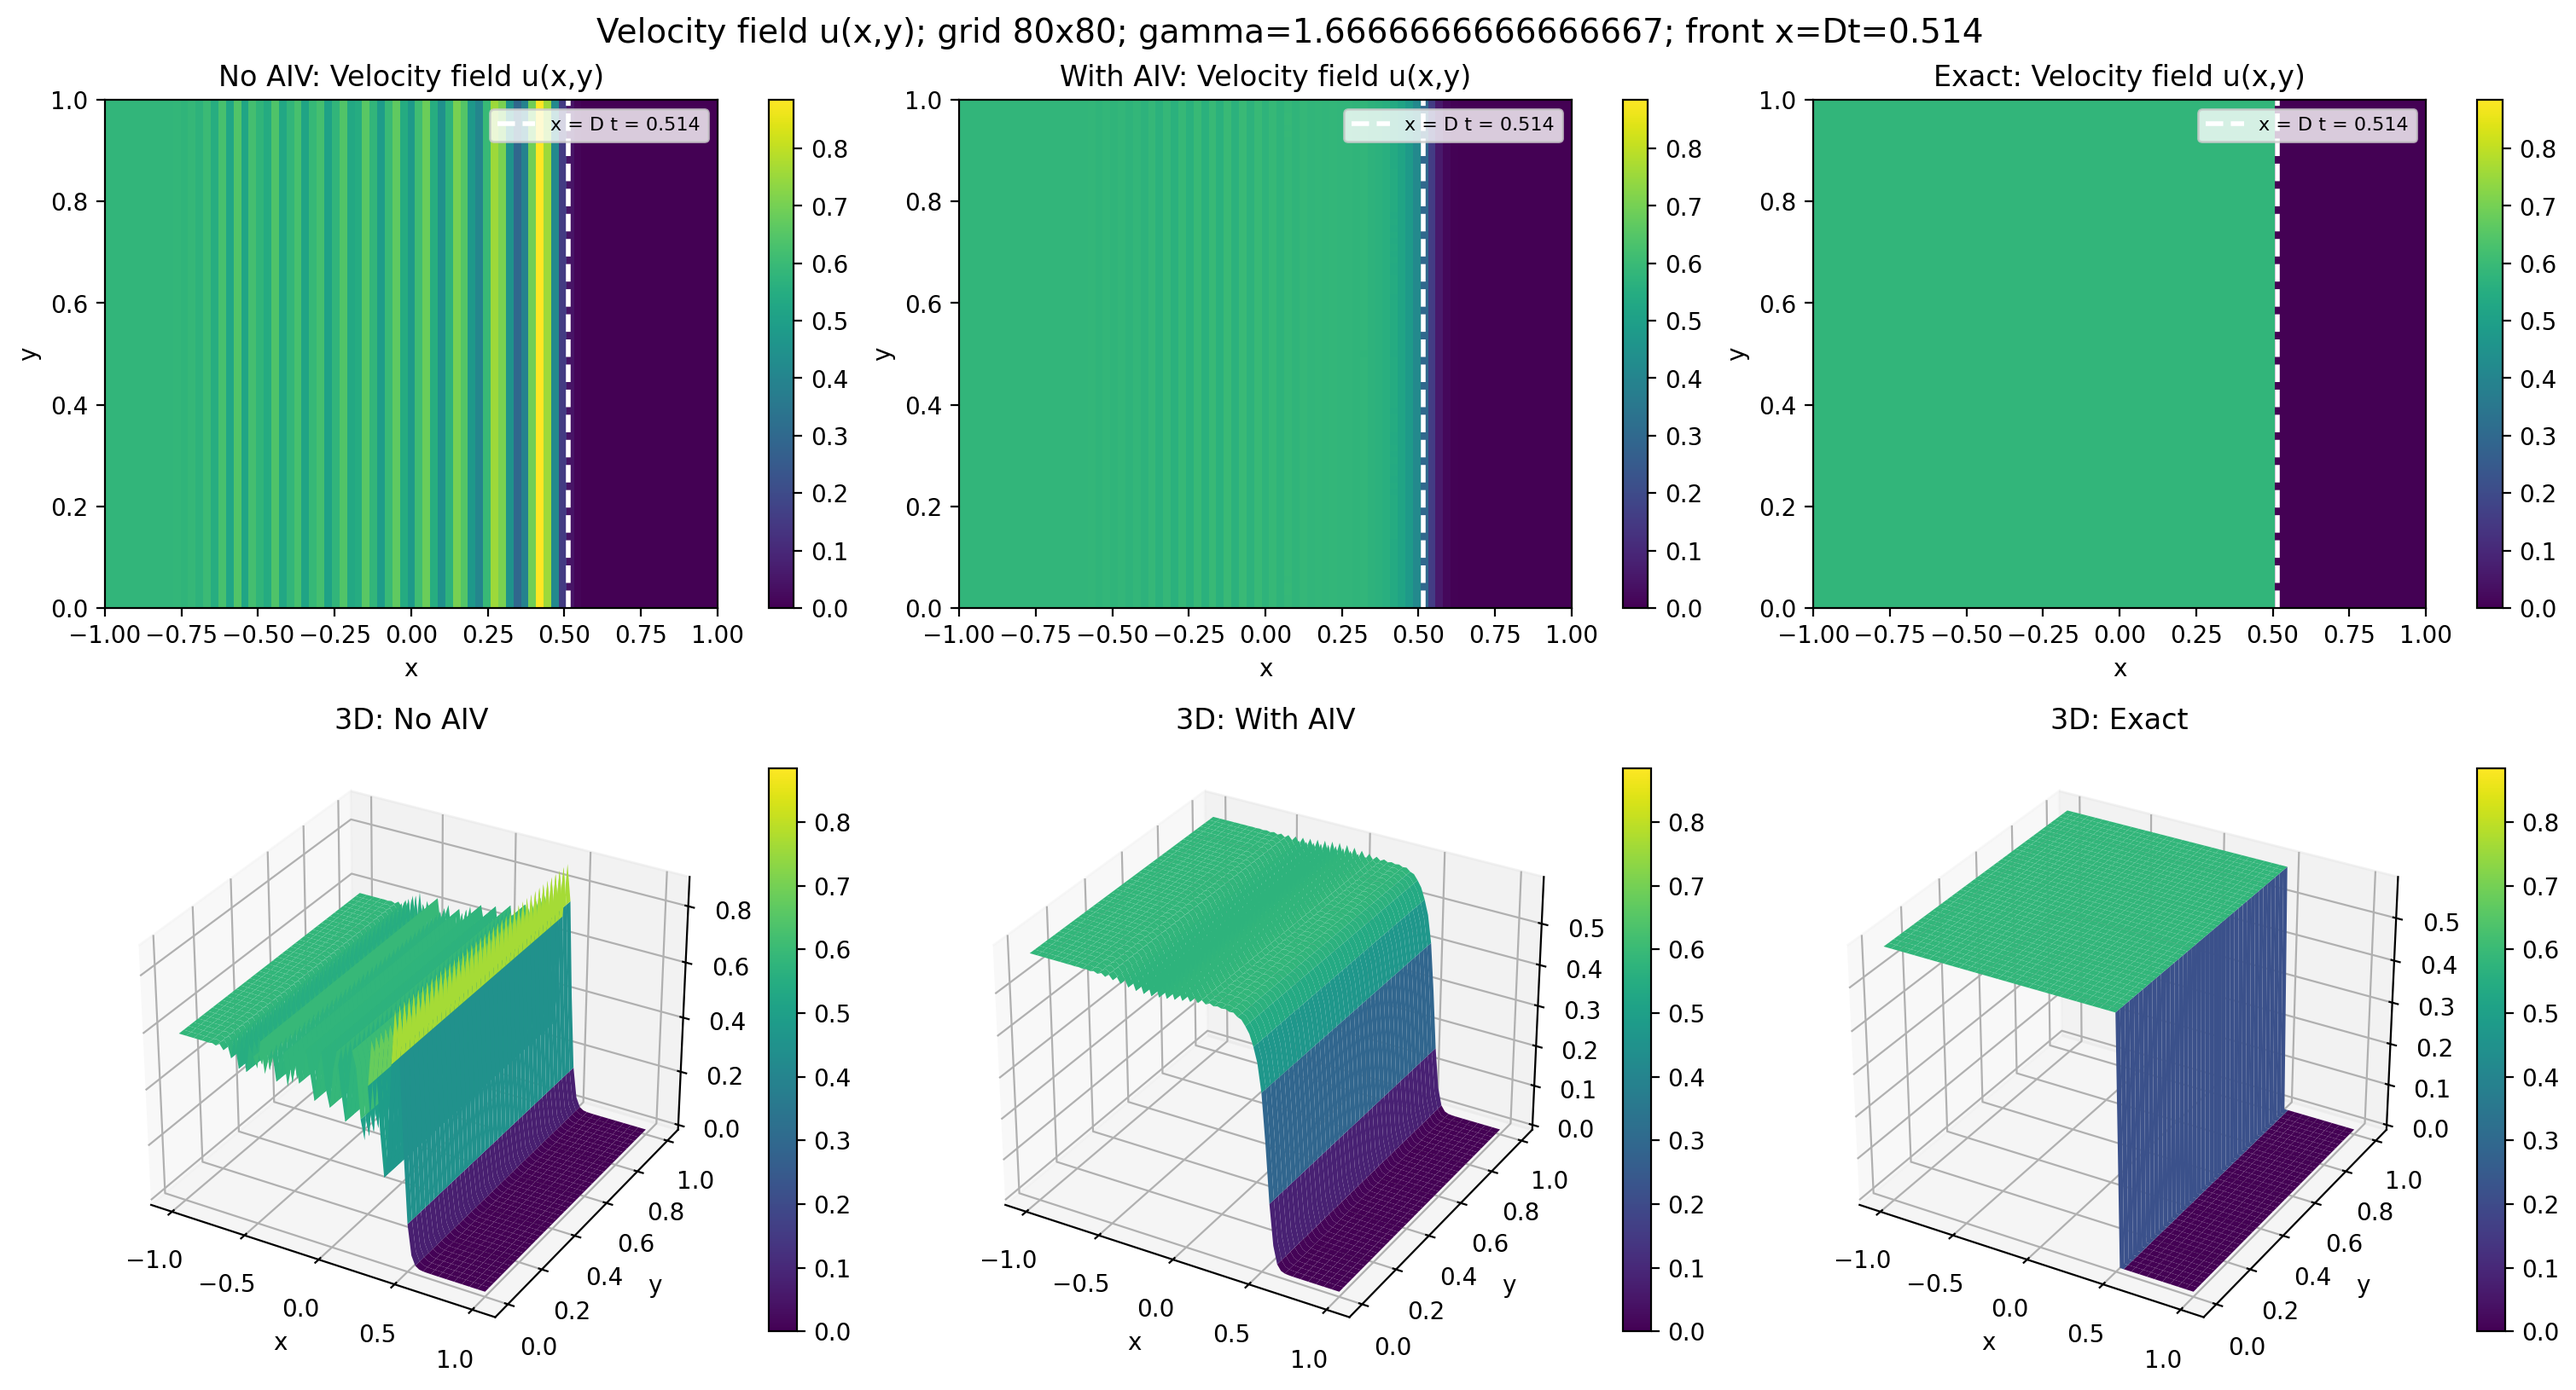
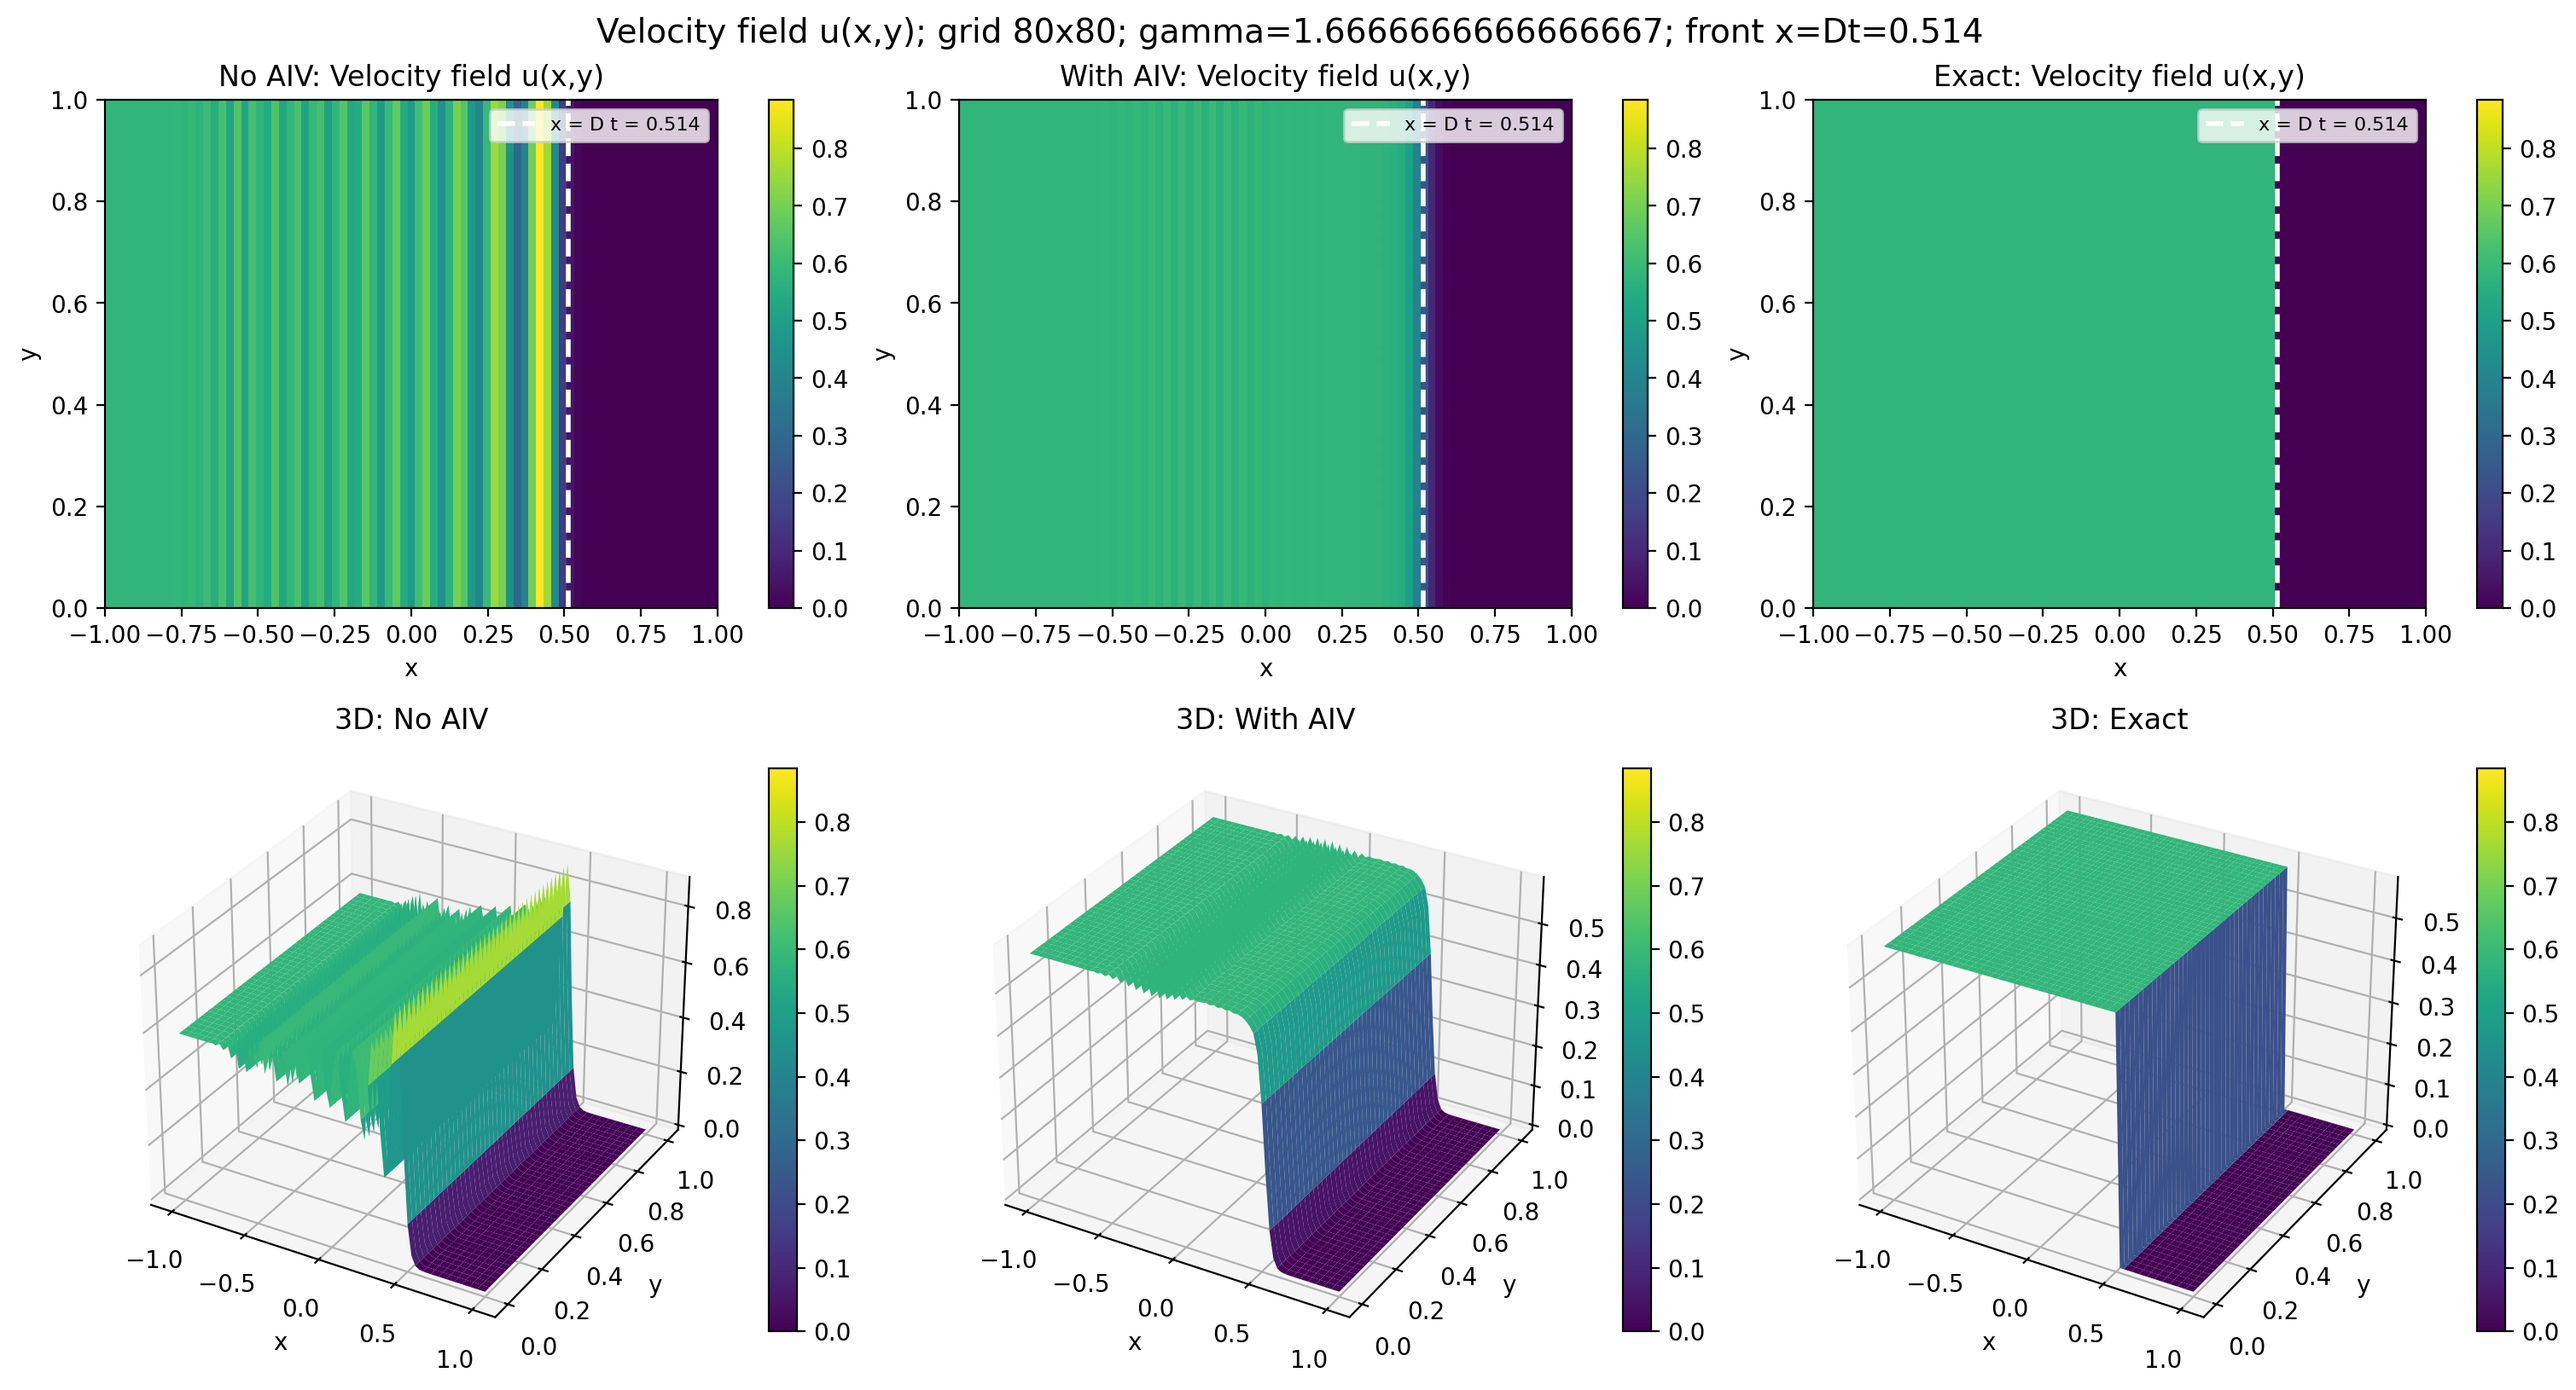
add file, no ripples in u still

Changed region(s): [[0.467, 0.6135, 0.5605, 0.8896]]

diff --git a/Mass+Conti_eq/density_velocity_with_exact_front.py b/Mass+Conti_eq/density_velocity_with_exact_front.py
@@ -24,14 +24,14 @@ dt = 0.001
 T_end = 0.30
 
 # AIV parameters
-beta_limiter = 0.50
-beta_limiter_u = 0.50
-const_rho = 0.01
-const_u = 0.01
+beta_limiter = 0.2
+beta_limiter_u = 0.3
+const_rho = 0.005
+const_u = 0.005
 
 omega_time = 0.50
 max_outer_iters = 20   # convergence of coupled iterate
-max_inner_iters = 60   # monotonicity / beta-selection loop
+max_inner_iters = 80   # monotonicity / beta-selection loop
 eps_rel = 1e-10
 eps_abs = 1e-12
 
@@ -82,7 +82,7 @@ h = min(dx, dy)
 # ============================================================
 def pressure_from_rho(rho: np.ndarray) -> np.ndarray:
     return cSound * rho**gamma
-    # return rho * cSound ** 2 
+    # return rho * cSound ** 2
 
 def apply_bc(rho: np.ndarray, u: np.ndarray, v: np.ndarray) -> None:
     rho[:, 0]  = rho[:, 1]
@@ -483,7 +483,7 @@ def plot_centerline_compare(x, num_no, num_aiv, exact, ylabel, out_png, xf):
 # ============================================================
 # Main
 # ============================================================
-if __name__ == "__main__":
+def main():
     t0 = time.perf_counter()
     rho_no, u_no, v_no, _, _ = run_sim(use_aiv=False)
     t1 = time.perf_counter()
@@ -532,3 +532,6 @@ if __name__ == "__main__":
     plt.close(fig)
 
     print(f"Saved outputs to: {OUTDIR.resolve()}")
+
+if __name__ == '__main__':
+    main()
